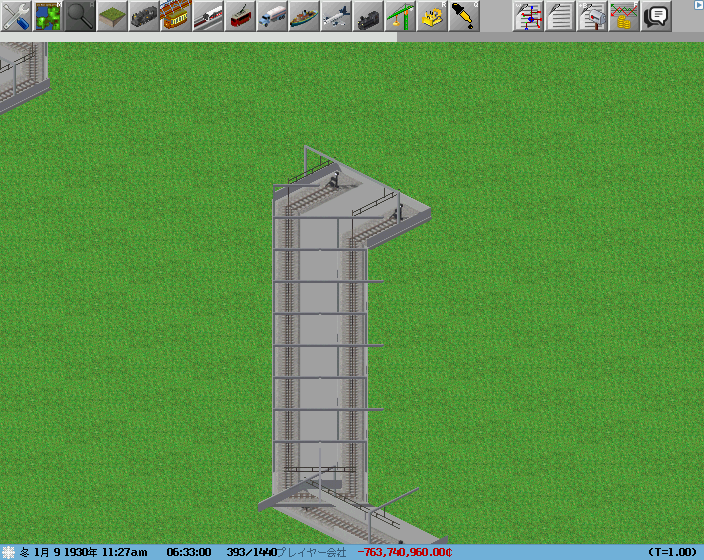
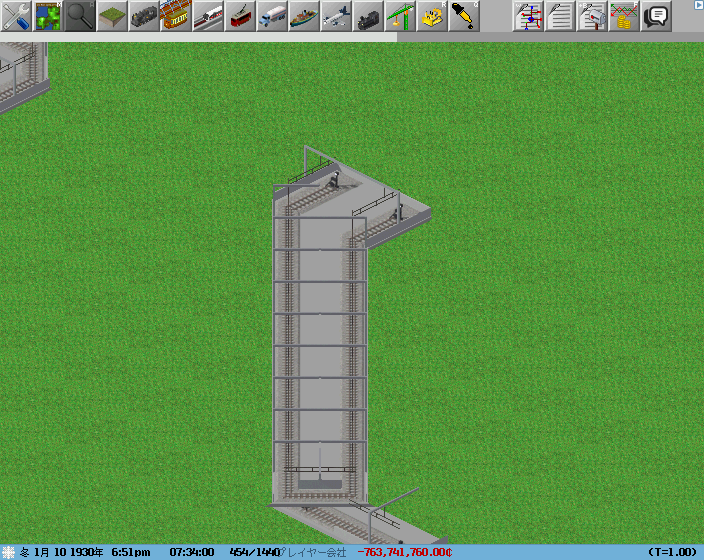
ami: add ami_wall_rail_twin_catenary for shared close-diagonal tiles
The twin catenary uses back/front sheets whose diagonal beams stop past
the tile centre, so beams no longer stick out past the outer wall and no
pole stands between the tracks. Its speed is 1101, so it replaces the
four catenary variants and the wall-only twin. The regular catenary
sheets keep the long beams that join parallel diagonals.

diff --git a/addons/ami/blender/ami_dat.py b/addons/ami/blender/ami_dat.py
@@ -12,7 +12,8 @@
 back と front のシートの斜めのセルを指す（README の「壁の敷き方」）。
 
 架線つきの壁の way-object（ami_wall_rail_<版>_catenary）は壁と同じ並びで、own_waytype=electrified_track（電化）。
-近い斜めの分け合うタイル用の架線つきの版は作らない（ユーザーの判断。README の「架線の作り」）。
+ami_wall_rail_twin_catenary は近い斜めの分け合うタイル用で、斜めの梁を短くした back と front の架線つきのシート
+（ami_wall_rail_twin_catenary_<back|front>）の斜めのセルを指す（README の「架線の作り」）。
 """
 import os
 
@@ -75,9 +76,12 @@ TWIN_FROM = {"[nw]": "ami_wall_rail_back", "[sw]": "ami_wall_rail_back", "[ne]":
 # ---------------------------------------------------------------- 架線つきの壁の way-object（線路用、電化。#17）
 # 値は仮（README の「架線の作り」）。架線の way-object の topspeed は、電化した編成の速さを縛る（本体の max_wayobj_speed）ので、
 # いちばん速い線路（高速線 480 km/h）より大きくする。壁だけの版（1000・twin 1001）より速くして、壁の上に敷くと架線つきに置き換わる
-# （逆に、架線つきの上に壁だけの版を敷いても置き換わらない。外してから敷く）。近い斜めの分け合うタイル用の版（twin）は無い
+# （逆に、架線つきの上に壁だけの版を敷いても置き換わらない。外してから敷く）。近い斜めの分け合うタイル用の twin は 1 速くする（壁だけの版と同じ理由。
+# 壁だけの twin 1001 も置き換える）。twin の絵は、斜めの梁を短くした back・front の版のシート（render.py の TWIN_FROM）
 CATENARY_VALUES = dict(cost=4000, maintenance=100, intro_year=1900, topspeed=1100)
+CATENARY_TWIN_TOPSPEED = CATENARY_VALUES["topspeed"] + 1
 CATENARY = {f"ami_wall_rail_{_v}_catenary": f"ami_wall_rail_{_v}_catenary" for _v in BASE_VARIANTS}
+TWIN_FROM_CATENARY = {k: v.replace("ami_wall_rail_", "ami_wall_rail_twin_catenary_") for k, v in TWIN_FROM.items()}
 
 
 def dat_text(name, sheet):
@@ -112,8 +116,9 @@ def dat_text(name, sheet):
 def wall_dat_text(name, sheet, twin=False, catenary=False):
     """壁の way-object の dat。セルは way と同じ位置（分岐の絵・近い斜めは持たない。壁は通常の T字・十字と同じ）。
     カーブは way と同じく斜めのセルを指す。twin は近い斜めの分け合うタイル用（斜めとカーブのキーだけ、TWIN_FROM のシートを指す）。
-    catenary は架線つき（電化。own_waytype=electrified_track、値は CATENARY_VALUES。twin の版は無い）"""
+    catenary は架線つき（電化。own_waytype=electrified_track、値は CATENARY_VALUES。twin は TWIN_FROM_CATENARY のシート）"""
     v = CATENARY_VALUES if catenary else WALL_VALUES
+    twin_from = TWIN_FROM_CATENARY if catenary else TWIN_FROM
     kind = "架線つき（電化）" if catenary else "壁だけ、架線なし"
     out = [
         f"# AMI: {name}（CC BY 4.0）。線路の壁の way-object（{kind}）。シートは blender/render.py が描く",
@@ -128,7 +133,7 @@ def wall_dat_text(name, sheet, twin=False, catenary=False):
         f"own_waytype={'electrified_track' if catenary else 'track'}",
         f"cost={v['cost']}",
         f"maintenance={v['maintenance']}",
-        f"topspeed={WALL_TWIN_TOPSPEED if twin else v['topspeed']}",
+        f"topspeed={(CATENARY_TWIN_TOPSPEED if catenary else WALL_TWIN_TOPSPEED) if twin else v['topspeed']}",
         f"icon=> {sheet}.0.0",
         f"cursor={sheet}.0.1,-64,-32",
     ]
@@ -139,9 +144,9 @@ def wall_dat_text(name, sheet, twin=False, catenary=False):
             row, col = CURVE_TO_DIAG[idx]
         src = sheet
         if twin:
-            if not ((key == "diagonal" or key == "image") and idx in TWIN_FROM):
+            if not ((key == "diagonal" or key == "image") and idx in twin_from):
                 continue
-            src = TWIN_FROM[idx]
+            src = twin_from[idx]
         for side, dr in (("back", 0), ("front", WALL_FRONT_ROW)):
             out.append(f"{side}{WAYOBJ_KEYS[key]}{idx}={src}.{row + dr}.{col},-64,-32")
     return NL.join(out) + NL
@@ -164,6 +169,9 @@ def main():
         with open(os.path.join(SRC, name + ".dat"), "w", encoding="utf8", newline=NL) as f:
             f.write(wall_dat_text(name, sheet, catenary=True))
         print(f"[dat] {name}.dat")
+    with open(os.path.join(SRC, "ami_wall_rail_twin_catenary.dat"), "w", encoding="utf8", newline=NL) as f:
+        f.write(wall_dat_text("ami_wall_rail_twin_catenary", "ami_wall_rail_twin_catenary_back", twin=True, catenary=True))
+    print("[dat] ami_wall_rail_twin_catenary.dat")
 
 
 if __name__ == "__main__":

diff --git a/addons/ami/blender/render.py b/addons/ami/blender/render.py
@@ -10,6 +10,7 @@
     src/ami_rail_ballast_base_<版>.png  基盤の版（single・back・center・front）の way。基盤は壁の位置で止まる
     src/ami_wall_rail_<版>.png  壁の way-object（4 版。center は行き止まりの端の壁だけ）。上 4 行が奥（back）、下 4 行が手前（front）の絵
     src/ami_wall_rail_<版>_catenary.png  架線つきの壁の way-object（4 版。center は架線と行き止まりの端の壁だけ）。行の並びは壁と同じ
+    src/ami_wall_rail_twin_catenary_<back|front>.png  近い斜めの分け合うタイル用の架線つきの壁の絵（back・front の版で、斜めの梁を短くした）
     work/                     セルごとの生の描画結果（確認用）
 """
 import dataclasses
@@ -88,6 +89,16 @@ for _v in BASE_VARIANTS:
         groups=_base["groups"] + ("catenary", "catenary_support"), snow=False, wall_only=True, rise=R.CAT_RISE,
         wall_label=CATENARY_LABEL)
 
+# 近い斜めの分け合うタイル用の架線つきの壁（ami_wall_rail_twin_catenary）の絵。壁だけの twin と同じく、nw・sw の線は back、ne・se の線は
+# front の版の斜めのセルを使う。斜めの梁だけを短くした（CAT_BEAM_REACH_TWIN。分け合うタイルの隣の線の外の壁からはみ出さない）。
+# 通常の 4 版の梁は変えない（斜めの線を隣のタイルに並べた複線・3 本並びで、梁をタイルの角でつなぐため）。dat は斜めのキーだけを指す
+TWIN_FROM = ("back", "front")
+for _v in TWIN_FROM:
+    R.TRACK_PROFILES[f"rail_ballast_base_{_v}_twin_catenary"] = dict(
+        R.TRACK_PROFILES[f"rail_ballast_base_{_v}_catenary"], sheet=f"ami_rail_ballast_base_{_v}_twcat",
+        wall_sheet=f"ami_wall_rail_twin_catenary_{_v}",
+        replace=dict(R.TRACK_PROFILES[f"rail_ballast_base_{_v}_catenary"]["replace"], cat_beam=R.beam_part(R.CAT_BEAM_REACH_TWIN)))
+
 # ---------------------------------------------------------------- 対象（シート名 → 描く関数）
 # 基盤の版の対象は、way のシートと壁の way-object のシートを 1 つのプロセスで描く
 
@@ -98,6 +109,8 @@ for _v in BASE_VARIANTS:
     SHEETS[f"ami_rail_ballast_base_{_v}"] = lambda v=_v: R.track_sheet(f"rail_ballast_base_{v}")
 for _v in BASE_VARIANTS:
     SHEETS[f"ami_wall_rail_{_v}_catenary"] = lambda v=_v: R.track_sheet(f"rail_ballast_base_{v}_catenary")
+for _v in TWIN_FROM:
+    SHEETS[f"ami_wall_rail_twin_catenary_{_v}"] = lambda v=_v: R.track_sheet(f"rail_ballast_base_{v}_twin_catenary")
 
 if __name__ == "__main__":
     R.run_targets(SHEETS, list(SHEETS))

diff --git a/addons/ami/ACCEPTANCE.md b/addons/ami/ACCEPTANCE.md
@@ -29,7 +29,7 @@ AMI の初版を「できた」と言うための条件。blender-poc の [ACCEP
 | 2-2 | 同じ版の基盤の way と組で敷くと、壁と基盤の端が合う（基盤が壁の外へ出ない、すき間が無い） | ○（在来線の地上） | 輪と十字（back・front）と区画 W を、レイアウト検証用モードの pak（基盤が青、壁が赤）で撮り、基盤が壁の外へ出ず、壁と基盤のあいだにすき間が無いことを見た。行き止まりは側壁と端の壁がタイルの端まで来る。複線の直角の曲がり（区画 W1）で、内側の線の外側に草が出ないことを見た（2026-11-17）。ユーザーの指摘（坂と十字の継ぎ目の 1px のすき間、直線と T字の継ぎ目の 1px の縦線）を直した後、坂の上の十字（区画 D）と輪の T字を拡大して撮り直し、すき間と縦線が無いことを見た |
 | 2-3 | カメラに近い側の壁が、車両より手前に描かれる（地上・高架・橋） | ？（ユーザーの確認待ち） | 壁のシートの下 4 行（`frontimage`）にカメラに近い壁を描き分けた（`tools/blender/sheetlib` の `near_camera`）。手で編成を走らせて、車両と壁の重なりを見る |
 | 2-4 | back・front のカーブと十字で、壁の手前/奥が線路・道路の並びと合う（POC の C5） | ○（線路の地上） | 決まりは README の「壁の敷き方」（カーブ・T字・十字は南北の線の版に合わせる）。区画 W1 の複線の輪で、4 つの角が外の線と内の線の版どおりに壁が外側に立つことを見た。`WALLED` の区画 B の十字・T字で、back の壁が北・西、front の壁が南・東に立つことを見た（2026-11-17） |
-| 2-6 | 線路の壁の架線つきの版で、電化の車両が走れる。架線が地上・高架・橋・トンネルの坑口でつながって見える | △（地上だけ。電化はスクリプトで ○、画面のつながりは ○、車両の走行は未確認。高架・橋・坑口は後のステップ） | `ami_wall_rail_<版>_catenary`（4 版）を作った（作りは README の「架線の作り」。近い斜めの分け合うタイル用の架線つきの版は、ユーザーの判断で作らない）。`sample.nut` の架線つきの区画（WALLED と同じ並び）と区画 WE（複線の輪・近い斜めの複線・行き止まりの並び）を敷き、架線つきの壁の下の way が電化されていること（`is_electrified()`。近い斜めの分け合うタイルを含む）を `[check]` の行で確かめた。画面で、柱・梁・線（上下 2 本）がタイルの境でつながり、複線の輪で back・front の梁が 1 本の門につながることを見た（2026-11-18、`OTRPv64_3.exe`、`flat_512.sve`）。pak128 の `classic_catenary` と並べて、線の高さと太さがそろうことも見た。その後の指摘で、ハンガー（ちょう架線からトロリ線への縦線）を足し、画面で縦向きの斜めの複線で梁の間の隙間を埋めた。ゲームで、ハンガーが直線・画面で横向きの斜めで途切れずに並ぶことと、梁がつながることを見た（2026-11-18）。さらにその後の指摘で、斜めの線を隣のタイルに並べた複線・3 本並び（ユーザーの確認用の保存データ）で梁が途切れずにつながるようにした。代わりに、近い斜めの複線では分け合うタイルの行の梁が外の壁から 5px ほどはみ出し、分け合うタイルではもう 1 本の線の柱が線の間に立つ（未決。README の「架線の作り」）。スクリプトからは編成を走らせられない（[reference](../../docs/reference/way-addon.md) の 5 章）ので、電化の車両が走れることと、車両と架線の重なり（梁・トロリ線が車両より手前）は、ユーザーが手で走らせて見る。近い斜めの分け合うタイルで 2 本目の way も電化されるかは、スクリプトで 1 本目しか読めないので見ていない |
+| 2-6 | 線路の壁の架線つきの版で、電化の車両が走れる。架線が地上・高架・橋・トンネルの坑口でつながって見える | △（地上だけ。電化はスクリプトで ○、画面のつながりは ○、車両の走行は未確認。高架・橋・坑口は後のステップ） | `ami_wall_rail_<版>_catenary`（4 版）と、近い斜めの分け合うタイル用の `ami_wall_rail_twin_catenary` を作った（作りは README の「架線の作り」）。`sample.nut` の架線つきの区画（WALLED と同じ並び）と区画 WE（複線の輪・近い斜めの複線・行き止まりの並び）を敷き、架線つきの壁の下の way が電化されていること（`is_electrified()`。近い斜めの分け合うタイルを含む）を `[check]` の行で確かめた。画面で、柱・梁・線（上下 2 本）がタイルの境でつながり、複線の輪で back・front の梁が 1 本の門につながることを見た（2026-11-18、`OTRPv64_3.exe`、`flat_512.sve`）。pak128 の `classic_catenary` と並べて、線の高さと太さがそろうことも見た。その後の指摘で、ハンガー（ちょう架線からトロリ線への縦線）を足し、画面で縦向きの斜めの複線で梁の間の隙間を埋めた。ゲームで、ハンガーが直線・画面で横向きの斜めで途切れずに並ぶことと、梁がつながることを見た（2026-11-18）。さらにその後の指摘で、斜めの線を隣のタイルに並べた複線・3 本並び（ユーザーの確認用の保存データ）で梁が途切れずにつながるようにした。代わりに、近い斜めの複線では分け合うタイルの行の梁が外の壁から 5px ほどはみ出したので、分け合うタイル用の `ami_wall_rail_twin_catenary`（梁の短いシート）を足した。保存データと `flat_512.sve` の区画 WE で、分け合うタイルの梁が外の壁の外の面で止まり、柱が線の間に立たないことを見た（2026-11-18）。スクリプトからは編成を走らせられない（[reference](../../docs/reference/way-addon.md) の 5 章）ので、電化の車両が走れることと、車両と架線の重なり（梁・トロリ線が車両より手前）は、ユーザーが手で走らせて見る。近い斜めの分け合うタイルで 2 本目の way も電化されるかは、スクリプトで 1 本目しか読めないので見ていない |
 | 2-5 | 近い斜めの分け合うタイルで、壁がおかしくならない敷き方と絵がある。way-object は 1 タイルに waytype ごとに 1 つなので、back と front を両方は置けない（POC の C2） | ○（線路の地上、OTRP） | 分け合うタイルに `ami_wall_rail_twin` を置く（敷き方は README の「壁の敷き方」）。区画 W2 で南東へ・北東へ 5 段の近い斜めの複線（西が back、東が front）を敷き、両側の壁が途切れずにつながり、2 本の線のあいだに壁が出ないことを見た（2026-11-17、`OTRPv64_3.exe`）。本家は確かめていない |
 
 ## 3. 高架・橋脚
@@ -53,7 +53,7 @@ AMI の初版を「できた」と言うための条件。blender-poc の [ACCEP
 | # | 条件 | 状態 | 確かめ方 |
 |---|---|---|---|
 | 5-1 | 歩道の way を道路の隣のタイルに敷くと、縁石が道路とつながる | × | |
-| 5-2 | 壁・橋脚・歩道が別の pak にあり、配布に同梱される | △（線路の壁と架線つきの壁だけ。`ami_extra.pak` にある。橋脚・歩道・配布の同梱は未対応） | `python -X utf8 build.py` の出力（`ami_extra.pak` に `ami_wall_*` の dat 9（壁だけの 4 版と twin、架線つきの 4 版）） |
+| 5-2 | 壁・橋脚・歩道が別の pak にあり、配布に同梱される | △（線路の壁と架線つきの壁だけ。`ami_extra.pak` にある。橋脚・歩道・配布の同梱は未対応） | `python -X utf8 build.py` の出力（`ami_extra.pak` に `ami_wall_*` の dat 10（壁だけの 4 版と twin、架線つきの 4 版と twin_catenary）） |
 
 ## 6. 配布
 
